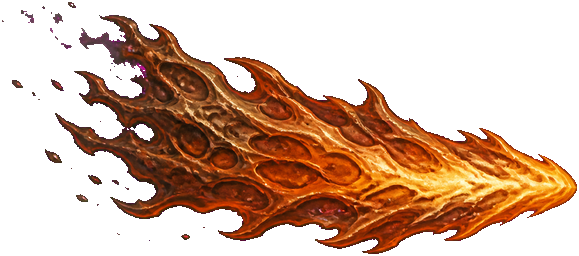
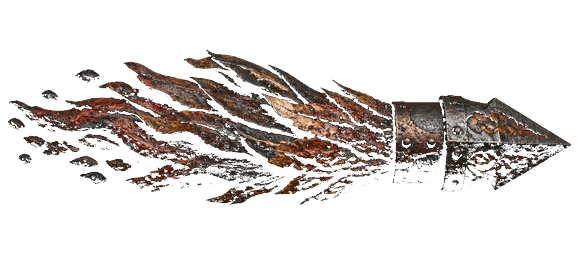
Bind Limner-signed fx_flame (ASSET_VER 79). (#168)
Solid clinker/copper flame-tail, no glow core. KEEP idles unchanged.

diff --git a/src/ui/Ch1RubbleLoad.test.js b/src/ui/Ch1RubbleLoad.test.js
@@ -45,7 +45,7 @@ assert(!/else if\(okTex\)\{/.test(html),
   'generated TEX diamonds are not a first-frame floor/wall fallback');
 assert(/tile_floor_mine\.png\?v=60/.test(html) && /tile_wall_worked\.png\?v=60/.test(html),
   'mine floor and worked wall are preloaded before first present');
-assert(/ASSET_VER='78'/.test(html), 'asset cache-bust matches punched living-Macar sheets');
+assert(/ASSET_VER='79'/.test(html), 'asset cache-bust matches punched living-Macar sheets');
 assert(/function scatterBurialRubble\(/.test(html) && /fallen:1/.test(html) && /k:'dust'/.test(html),
   'cave-in entry scatters extra timber, stone, and dust around the burial');
 assert(/function drawFallenBeam\(/.test(html) && /function drawFloorDust\(/.test(html),

diff --git a/src/combat/ElvenkindBoots.test.js b/src/combat/ElvenkindBoots.test.js
@@ -23,7 +23,7 @@ function extractFn(name){
   return m[0];
 }
 
-assert(/ASSET_VER='78'/.test(html), 'ASSET_VER is unchanged');
+assert(/ASSET_VER='79'/.test(html), 'ASSET_VER is unchanged');
 assert(/function wornMoveMul\(/.test(html) && /function moveStep\(/.test(html),
   'wornMoveMul and moveStep exist (extract of move())');
 assert(/function wearingElvenkind\(/.test(html), 'shared wearingElvenkind helper exists');

diff --git a/src/combat/UseMagicItem.test.js b/src/combat/UseMagicItem.test.js
@@ -48,7 +48,7 @@ assert(/nocked|stays packed/.test(useFn), 'plus-shot ammo use is still nock/read
 assert(/EquipmentSlots\.isEquippable\(it\)/.test(useFn),
   'wearable misc (Displacement) dons through isEquippable before the generic buff+heal');
 
-assert(/ASSET_VER='78'/.test(html), 'ASSET_VER is unchanged');
+assert(/ASSET_VER='79'/.test(html), 'ASSET_VER is unchanged');
 
 const ctx={
   G:{equipped:{}},

diff --git a/index.html b/index.html
@@ -348,7 +348,7 @@ const FONT_QUOTE='"Cormorant Garamond",Palatino,Georgia,serif';
 
 /* ---------------------------- painted sprites (Baldur's Gate isometric) ---------------------------- */
 const SPR={};
-const ASSET_VER='78';
+const ASSET_VER='79';
 let SPLASH_STATE='loading';
 function assetUrl(src){
   const u=src+(src.indexOf('?')>=0?'&':'?')+'v='+ASSET_VER;

diff --git a/src/combat/LeftoverMagic.test.js b/src/combat/LeftoverMagic.test.js
@@ -26,7 +26,7 @@ function extractFn(name){
   return m[0];
 }
 
-assert(/ASSET_VER='78'/.test(html), 'ASSET_VER is unchanged');
+assert(/ASSET_VER='79'/.test(html), 'ASSET_VER is unchanged');
 assert(!/id:'vorpal'|id:'bag_of_holding'|id:'arrow_of_slaying'|id:'javelin_of_lightning'/.test(html),
   'no invented leftover-magic item ids');
 
